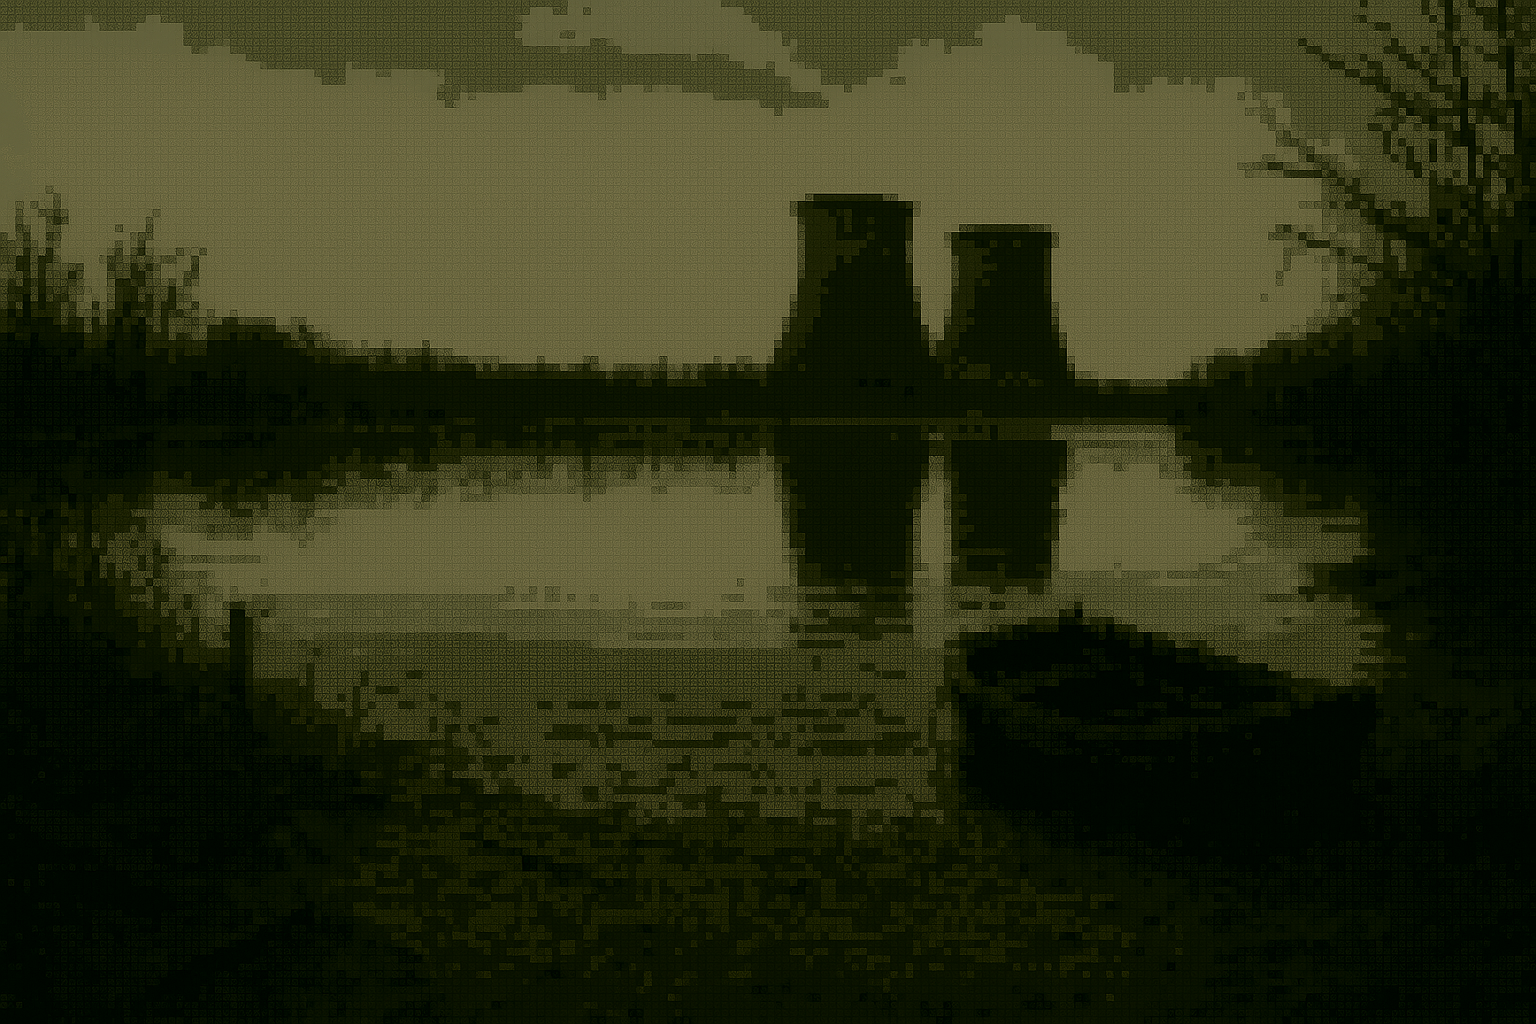
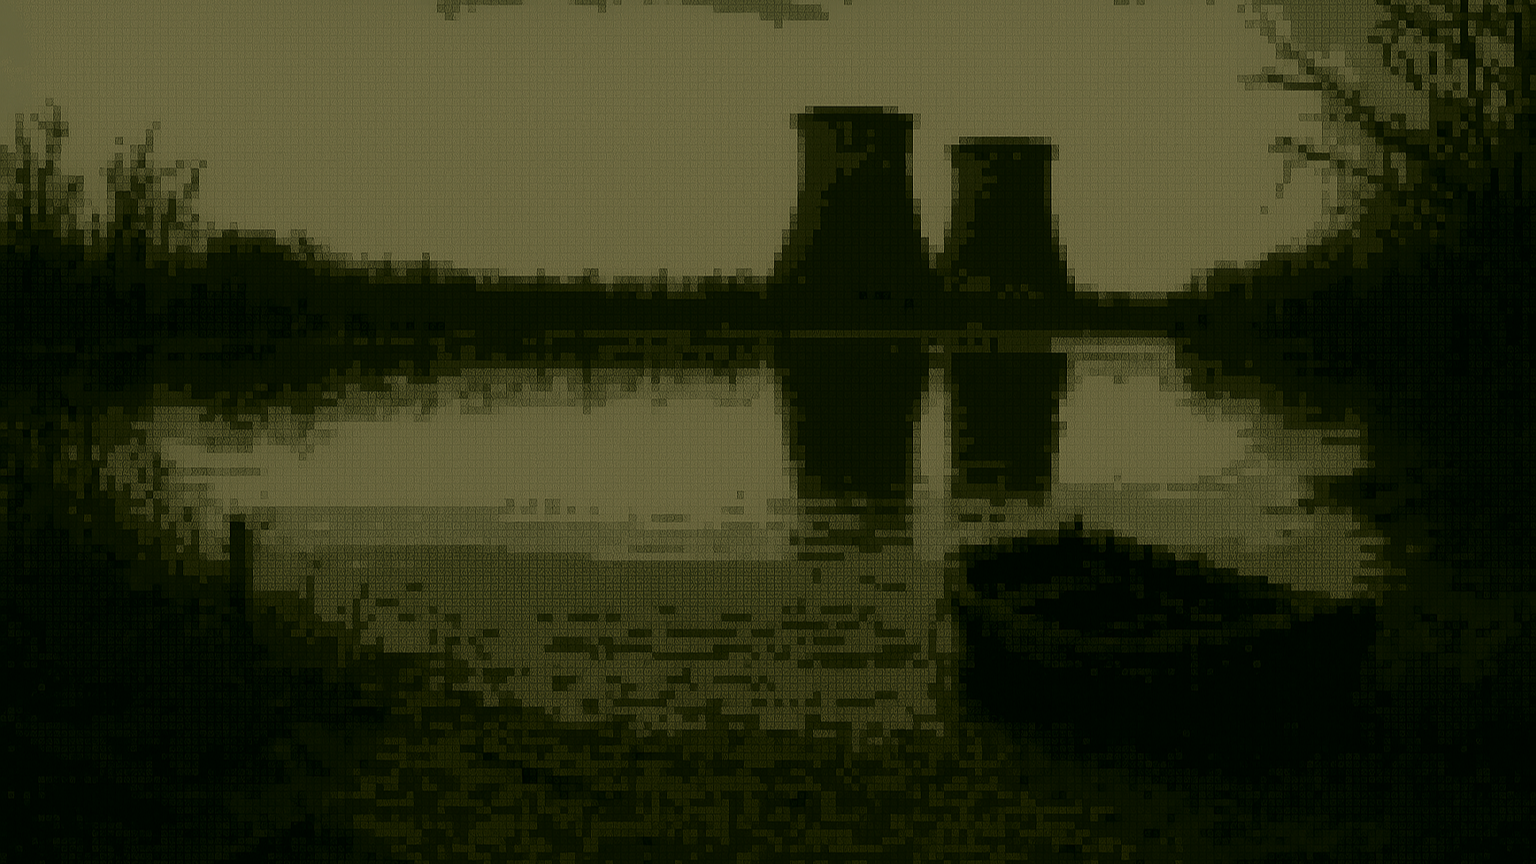
Added lake background

diff --git a/main.py b/main.py
@@ -34,7 +34,7 @@ class Player(pygame.sprite.Sprite):
             self.image = pygame.Surface((TILE_SIZE, TILE_SIZE))
             self.image.fill(RED)
         self.rect = self.image.get_rect()
-        self.rect.center = (WIDTH // 2, HEIGHT // 2)
+        self.rect.center = (WIDTH // 2, HEIGHT // 1.5)
         self.health = 8
         self.max_health = 8
         self.hunger = 10
@@ -462,9 +462,22 @@ class Game:
                 pygame.display.flip()
 
     def draw_location(self):
-        # Draw the current location name and background color
-        color = LOCATION_COLORS.get(self.player.location, GRAY)
-        pygame.draw.rect(self.screen, color, (0, 0, WIDTH, HEIGHT // 4))
+        # Draw the current location name and background color or image
+        if self.player.location == "Lake":
+            if not hasattr(self, 'lake_bg'):
+                try:
+                    self.lake_bg = pygame.image.load("assets/lake.png").convert()
+                    self.lake_bg = pygame.transform.scale(self.lake_bg, (WIDTH, HEIGHT))
+                except Exception as e:
+                    self.lake_bg = None
+            if self.lake_bg:
+                self.screen.blit(self.lake_bg, (0, 0))
+            else:
+                color = LOCATION_COLORS.get(self.player.location, GRAY)
+                pygame.draw.rect(self.screen, color, (0, 0, WIDTH, HEIGHT))
+        else:
+            color = LOCATION_COLORS.get(self.player.location, GRAY)
+            pygame.draw.rect(self.screen, color, (0, 0, WIDTH, HEIGHT // 4))
         loc_text = self.font.render(f"Location: {self.player.location}", True, BLACK)
         self.screen.blit(loc_text, (WIDTH // 2 - loc_text.get_width() // 2, 20))
 
